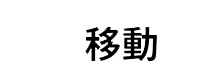
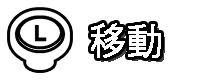
20250929
・UIの調整

Changed region(s): [[0.42, 0.25, 0.84, 0.775], [0.03, 0.075, 0.39, 0.925]]

diff --git a/GameTimer.cpp b/GameTimer.cpp
@@ -9,6 +9,8 @@
 /// </summary>
 GameTimer::GameTimer():
 	BaseUI(),
+	colonHandle(-1),
+	colonPositionX(-1),
 	isUpdateMin(false),
 	countNumberSec("")
 {
@@ -29,9 +31,11 @@ GameTimer::~GameTimer()
 void GameTimer::Load(const nlohmann::json& jsonData)
 {
 	std::string path = jsonData["coin"][2][0];
+	std::string colonPath = jsonData["coin"][3][0];
 
 	LoadDivGraph(path.c_str(),
 		10, 10, 1, 480, 500, numberHandle);
+	colonHandle = LoadGraph(colonPath.c_str());
 }
 
 void GameTimer::Create()
@@ -50,6 +54,7 @@ void GameTimer::Initialize()
 	min = 3;
 	positionX = 640;
 	positionY = 30;
+	colonPositionX = 765;
 	numberWidth = 100;
 	numberHeight = 100;
 	isUpdateMin = false;
@@ -121,6 +126,9 @@ void GameTimer::Draw()
 		num_x += addNumberX;
 	}
 
+	DrawExtendGraph(colonPositionX, positionY,
+		colonPositionX + numberWidth, positionY + numberHeight,
+		colonHandle, TRUE);
 	num_x += addSpaceX;
 
 	for (char c : countNumberSec)

diff --git a/UI_controlManual.cpp b/UI_controlManual.cpp
@@ -40,12 +40,14 @@ void UI_controlManual::Create()
 
 void UI_controlManual::Initialize()
 {
-	const int initX = 50;
-	const int initY = 30;
+	const int initX = 90;
+	const int initY = 120;
 	const int initStateNumber = -1;
 
 	x = initX;
 	y = initY;
+	commandsBackPosX = 30;
+	commandsBackPosY = 60;
 	stateNumber = initStateNumber;
 }
 
@@ -93,12 +95,10 @@ void UI_controlManual::Update()
 void UI_controlManual::Draw()
 {
 	int alpha_Box = 100;
-	SetDrawBlendMode(DX_BLENDMODE_ALPHA, alpha_Box);
-	DrawBox(30, 10, 220, 250, GetColor(0, 0, 0), true);
-
-	SetDrawBlendMode(DX_BLENDMODE_NOBLEND, 0);
 
 	int draw_y = y;
+
+	DrawGraph(commandsBackPosX, commandsBackPosY, uiHandles.at("commandBack"),TRUE);
 
 	for (auto& draw_UI : draw_UIs)
 	{

diff --git a/Player.cpp b/Player.cpp
@@ -172,8 +172,12 @@ void Player::Update()
         effectTimer++;
         if (effectTimer >= 10.0f)
         {
+            VECTOR effectPosition = position;
+            effectPosition.y += 2.0f;
+            const VECTOR scale = VGet(4.0f, 4.0f, 4.0f);
             effectManager->PlayEffect("foot_smoke");
-            effectManager->SetPosition(position,"foot_smoke");
+            effectManager->SetScale(scale, "foot_moke");
+            effectManager->SetPosition(effectPosition,"foot_smoke");
             effectTimer = 0.0f;
         }
     }

diff --git a/GameTimer.h b/GameTimer.h
@@ -37,10 +37,12 @@ private:
 	int positionY;
 	int numberWidth;
 	int numberHeight;
+	int numberHandle[10];
+	int colonHandle;
+	int colonPositionX;
 
 	bool isUpdateMin;	
 
-	int numberHandle[10];
 	std::string countNumberSec;
 	std::string countNumberMin;
 };

diff --git a/UI_controlManual.h b/UI_controlManual.h
@@ -24,6 +24,9 @@ private:
 	std::unordered_map<std::string, int> uiHandles;
 	std::vector<int> draw_UIs;
 	int stateNumber;
+	int commandsBackHandle;
+	int commandsBackPosX;
+	int commandsBackPosY;
 
 	PlayerData data;
 
